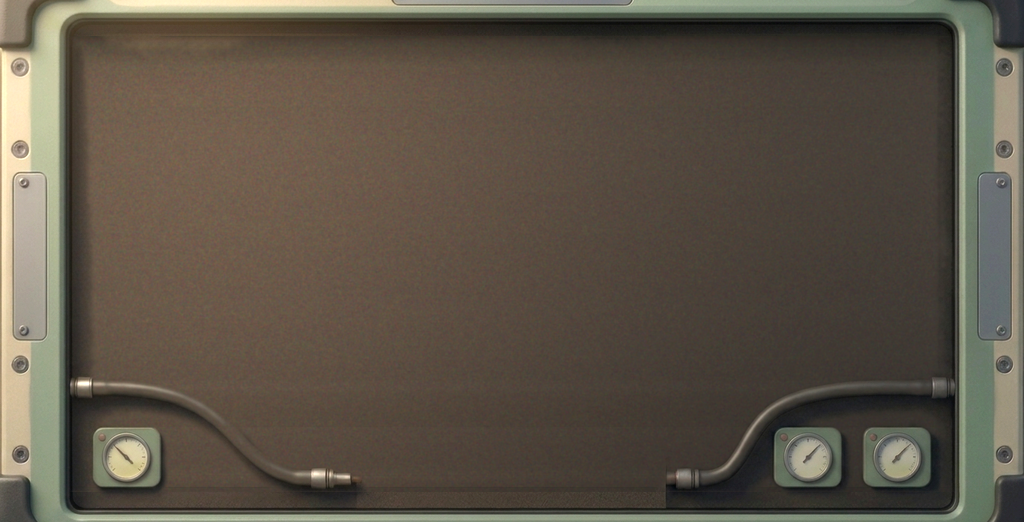
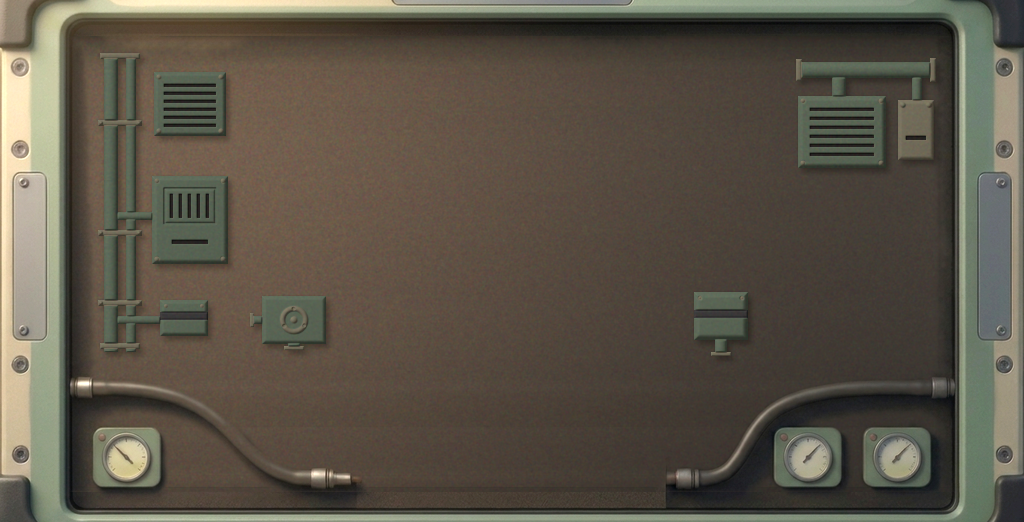
Pods masters: fix 5 IA1, the Incubator stage recut with the chamber's machinery in the four paint zones

diff --git a/art/station-masters/pods/stage-incubator/paint-machinery.py b/art/station-masters/pods/stage-incubator/paint-machinery.py
@@ -1,0 +1,110 @@
+#!/usr/bin/env python3
+"""Fix 5 IA1: the Incubator stage recut under the same id. The chamber's service machinery is painted, by hand in code, only in
+the four paint zones of boards/station-fix5-incubator-probe-spec.md I1 (screen rects; the slice sits at (0, 40)). Each piece is a
+small height field (bevelled boxes, pipes, flanges, slats, bolts, a handwheel) shaded lambert from the top left (matte, no
+specular), given the wall's own grain, and casting a soft shadow down-right onto the wall. Everything outside the zones is the
+signed stage pixel for pixel.
+usage: python3 -I paint-machinery.py SRC_STAGE OUT_STAGE"""
+import sys, numpy as np
+from PIL import Image
+from scipy import ndimage as nd
+
+src, out = sys.argv[1], sys.argv[2]
+base = np.asarray(Image.open(src).convert('RGBA')).astype(float)
+H, W = base.shape[:2]; OY = 40                                    # screen y = slice y + 40
+ZONES = {'L': (80, 88, 160, 312), 'R': (784, 88, 160, 144), 'LM': (248, 320, 96, 80), 'RM': (680, 320, 80, 88)}
+zone = np.zeros((H, W), bool)
+for x, y, w, h in ZONES.values(): zone[y - OY:y - OY + h, x:x + w] = True
+
+SAGE = np.array([88, 99, 83.]); SAND = np.array([112, 106, 88.]); RUBBER = np.array([58, 56, 56.]); SLOT = np.array([38, 34, 32.])
+LIGHT = np.array([-0.55, -0.62, 0.78]); LIGHT /= np.linalg.norm(LIGHT)
+S = 4
+yy, xx = (np.mgrid[0:H * S, 0:W * S].astype(np.float32) + .5) / S - .5   # supersampled pixel centres, in slice pixels
+
+def lin(c): c = c / 255; return np.where(c <= 0.04045, c / 12.92, ((c + 0.055) / 1.055) ** 2.4)
+def srgb(l): l = np.clip(l, 0, 1); return np.where(l <= 0.0031308, l * 12.92, 1.055 * l ** (1 / 2.4) - 0.055) * 255
+
+pieces = []                                                       # (mask, height, albedo) back to front
+def box(x, y, w, h, b, alb, depth=1.0):
+    m = (xx >= x - .5) & (xx < x + w - .5) & (yy >= y - OY - .5) & (yy < y - OY + h - .5)
+    d = np.minimum.reduce([xx - x + .5, x + w - xx - .5, yy - (y - OY) + .5, y - OY + h - yy - .5])
+    t = np.clip(d / b, 0, 1); pieces.append((m, depth * b * np.sin(t * np.pi / 2), alb))
+def cyl_v(x, y, w, h, alb):
+    m = (xx >= x - .5) & (xx < x + w - .5) & (yy >= y - OY - .5) & (yy < y - OY + h - .5); r = w / 2; t = (xx + .5 - x - r) / r
+    pieces.append((m, np.sqrt(np.clip(1 - t * t, 0, 1)) * r, alb))
+def cyl_h(x, y, w, h, alb):
+    m = (xx >= x - .5) & (xx < x + w - .5) & (yy >= y - OY - .5) & (yy < y - OY + h - .5); r = h / 2; t = (yy + .5 - (y - OY) - r) / r
+    pieces.append((m, np.sqrt(np.clip(1 - t * t, 0, 1)) * r, alb))
+def bolt(cx, cy, r=2.5, alb=SAND):
+    d2 = (xx + .5 - cx) ** 2 + (yy + .5 - (cy - OY)) ** 2; m = d2 <= r * r
+    pieces.append((m, np.sqrt(np.clip(1 - d2 / (r * r), 0, 1)) * r + 3, alb))
+def ring(cx, cy, r0, r1, alb):
+    d = np.sqrt((xx + .5 - cx) ** 2 + (yy + .5 - (cy - OY)) ** 2); m = (d >= r0) & (d <= r1); mid = (r0 + r1) / 2; hw = (r1 - r0) / 2
+    pieces.append((m, np.sqrt(np.clip(1 - ((d - mid) / hw) ** 2, 0, 1)) * hw + 4, alb))
+grooves = []                                                      # recessed lines cut into the piece under them
+def groove(x, y, w, h): grooves.append((x, y - OY, w, h))
+
+# L: two risers with flanges, clamps, a vent unit, the service unit on a branch, a junction box on a second branch
+cyl_v(104, 96, 14, 296, SAGE); cyl_v(126, 96, 10, 296, SAGE)
+for fy in (96, 386): box(100, fy - 3, 40, 6, 2, SAND)
+for cy in (160, 270, 340):
+    box(98, cy, 44, 6, 2, SAND); bolt(101, cy + 3, 1.6); bolt(139, cy + 3, 1.6)
+cyl_h(118, 252, 36, 8, SAGE); cyl_h(118, 356, 42, 8, SAGE)
+box(154, 112, 72, 64, 4, SAGE)
+for i in range(6): groove(164, 124 + i * 8, 52, 3)
+for bx, by in ((159, 117), (221, 117), (159, 171), (221, 171)): bolt(bx, by)
+box(152, 216, 76, 88, 5, SAGE); box(164, 228, 52, 36, 3, SAGE, 1.3)
+for i in range(5): groove(170 + i * 9, 234, 3, 24)
+groove(172, 280, 36, 4)
+for bx, by in ((157, 221), (223, 221), (157, 299), (223, 299)): bolt(bx, by)
+box(160, 340, 48, 36, 4, SAGE); box(160, 352, 48, 8, 2, RUBBER); bolt(166, 346, 2); bolt(202, 346, 2)
+# R: a duct from the right wall, a vent hood on a drop, a small enamel unit on a second drop
+for fx in (930,): box(fx, 98, 6, 24, 2, SAND)
+cyl_h(800, 102, 130, 16, SAGE); box(796, 99, 6, 22, 2, SAND)
+cyl_v(832, 118, 14, 18, SAGE); box(798, 136, 88, 72, 5, SAGE)
+for i in range(6): groove(810, 148 + i * 9, 64, 3)
+for bx, by in ((803, 141), (881, 141), (803, 203), (881, 203)): bolt(bx, by)
+cyl_v(912, 118, 10, 22, SAGE); box(898, 140, 36, 60, 4, SAND, .8); groove(906, 176, 20, 4); bolt(903, 145); bolt(929, 145)
+# LM: a valve unit with a handwheel, a stub into the wall at the left, a drop into the wall below
+cyl_h(252, 356, 14, 8, SAGE); box(250, 353, 4, 14, 1, SAND)
+box(262, 336, 64, 48, 4, SAGE); ring(294, 360, 9, 14, SAND); bolt(294, 360, 3.5)
+for a in (0, 1, 2): bolt(294 + 11.5 * np.cos(a * 2.094 + .5), 360 + 11.5 * np.sin(a * 2.094 + .5), 1.5)
+cyl_v(288, 384, 12, 4, SAGE); box(284, 386, 20, 4, 1, SAND)
+# RM: a small pump on the line down to the right hose
+box(694, 332, 54, 48, 6, SAGE); box(694, 350, 54, 8, 2, RUBBER); bolt(700, 338, 2); bolt(742, 338, 2)
+cyl_v(715, 380, 12, 14, SAGE); box(711, 392, 20, 4, 1, SAND)
+
+# shading, at S x
+SH, SW = H * S, W * S
+up = lambda img: np.repeat(np.repeat(img, S, 0), S, 1)
+alb = up(base[..., :3]).astype(np.float32); hgt = np.zeros((SH, SW), np.float32); obj = np.zeros((SH, SW), bool)
+ox, oy = np.zeros((SH, SW), np.float32), np.zeros((SH, SW), np.float32); size = np.ones((SH, SW), np.float32)
+for m, h, a_ in pieces:
+    hgt[m] = h[m] + 1; alb[m] = a_; obj |= m
+    ys_, xs_ = np.where(m); x0, x1, y0, y1 = xs_.min(), xs_.max(), ys_.min(), ys_.max()
+    ox[m] = (xx[m] * S - x0) / max(x1 - x0, 1); oy[m] = (yy[m] * S - y0) / max(y1 - y0, 1)
+for x, y, w, h in grooves:
+    g = (xx >= x - .5) & (xx < x + w - .5) & (yy >= y - .5) & (yy < y + h - .5) & obj; hgt[g] -= 2.5; alb[g] = SLOT
+gy, gx = np.gradient(nd.gaussian_filter(hgt, S * .5))
+gx *= S; gy *= S                                                   # slope per slice pixel
+n = np.dstack([-gx, -gy, np.ones((SH, SW), np.float32)]); n /= np.linalg.norm(n, axis=2, keepdims=True)
+shade = 0.30 + 0.70 * np.clip(n @ LIGHT, 0, 1) / LIGHT[2]
+shade *= 1.07 - 0.14 * (0.5 * ox + 0.5 * oy)                       # light falls off across each face, top left to bottom right
+col = lin(alb) * shade[..., None]
+dn = lambda img: img.reshape(H, S, W, S, *img.shape[2:]).mean((1, 3))
+col1 = dn(col); cov = dn(obj.astype(np.float32))
+sh = nd.gaussian_filter(nd.shift(cov, (5, 4), order=1), 2.5); ao = nd.gaussian_filter(cov, 1.2)
+wall_l = lin(base[..., :3]) * (1 - 0.45 * sh[..., None]) * (1 - 0.25 * ao[..., None])
+outl = col1 * cov[..., None] + wall_l * (1 - cov[..., None])
+wall = base[60:240, 300:700, :3]; res = wall - nd.gaussian_filter(wall, (4, 4, 0))
+grain = np.tile(res, (H // res.shape[0] + 1, W // res.shape[1] + 1, 1))[:H, :W]
+rgb = srgb(outl) + grain * .7 * cov[..., None]
+res_img = base.copy()
+res_img[..., :3] = np.where(zone[..., None], np.clip(np.round(rgb), 0, 255), base[..., :3])
+Image.fromarray(res_img.astype(np.uint8), 'RGBA').save(out)
+
+# gate measures
+Y = lin(res_img[..., :3]) @ [.2126, .7152, .0722]
+for k, (x, y, w, h) in ZONES.items():
+    z = Y[y - OY:y - OY + h, x:x + w]; print(f'{k}: p95 {np.percentile(z, 95):.4f} mean {z.mean():.4f}')
+print('changed outside zones:', int(((res_img != base).any(-1) & ~zone).sum()))

diff --git a/art/station-masters/pods/stage-incubator/README.md b/art/station-masters/pods/stage-incubator/README.md
@@ -1,0 +1,33 @@
+# Fix 5 IA1: the Incubator stage, the chamber's machinery (AD, 10-15)
+
+`room-bench-stage-incubator` is recut under the same id. It is still 1024×522 at (0, 40).
+
+**Made by:** `paint-machinery.py SRC OUT`.
+- New painting lies only in the spec's four paint zones (boards/station-fix5-incubator-probe-spec.md I1, screen rects):
+  - L (80, 88, 160, 312)
+  - R (784, 88, 160, 144)
+  - LM (248, 320, 96, 80)
+  - RM (680, 320, 80, 88)
+- Every pixel outside them is the signed stage (d09acb12) unchanged: 0 changed, measured. That covers the leaf band, the chamber and base, the label's place, and everything below y 405.
+
+**What is painted:**
+- L: two risers with sand clamps, a slatted vent, a service unit on a branch with a ribbed panel, and a junction box.
+- R: a duct from the right wall feeding a slatted vent hood and a small enamel unit.
+- LM: a valve unit with a sand handwheel.
+- RM: a small pump on the line down to the right hose.
+
+**How it is painted:**
+- Materials: matte sage metal (#58634f flat), sand enamel (#706a58) and hose rubber, the stage's own. Nothing is lit; there is no text, gold, teal, amber or glass.
+- Each piece is a height field (bevelled boxes, true cylinders, flanges, grooves, bolts). It is shaded lambert from the top left at 4× and area-reduced to 1×, so the edges are soft.
+- Each piece gets the wall's own grain and a light falloff across its face, and casts a soft shadow down and right with contact occlusion on the wall.
+
+**Gate, measured** (relative luminance; cap p95 ≤ 0.162, the darker right gauge housing; mean ≤ the empty chamber's back, 0.287):
+
+| Zone | p95 | Mean |
+|---|---|---|
+| L | 0.138 | 0.099 |
+| R | 0.146 | 0.073 |
+| LM | 0.141 | 0.100 |
+| RM | 0.136 | 0.066 |
+
+**Proof:** `proof-empty-1x.png`, the empty state at 1×: the stage with the dome back, standby inside and front. The AD signs in the builder's whole-screen captures of every Incubator state, beside the concept board 18c17261.
